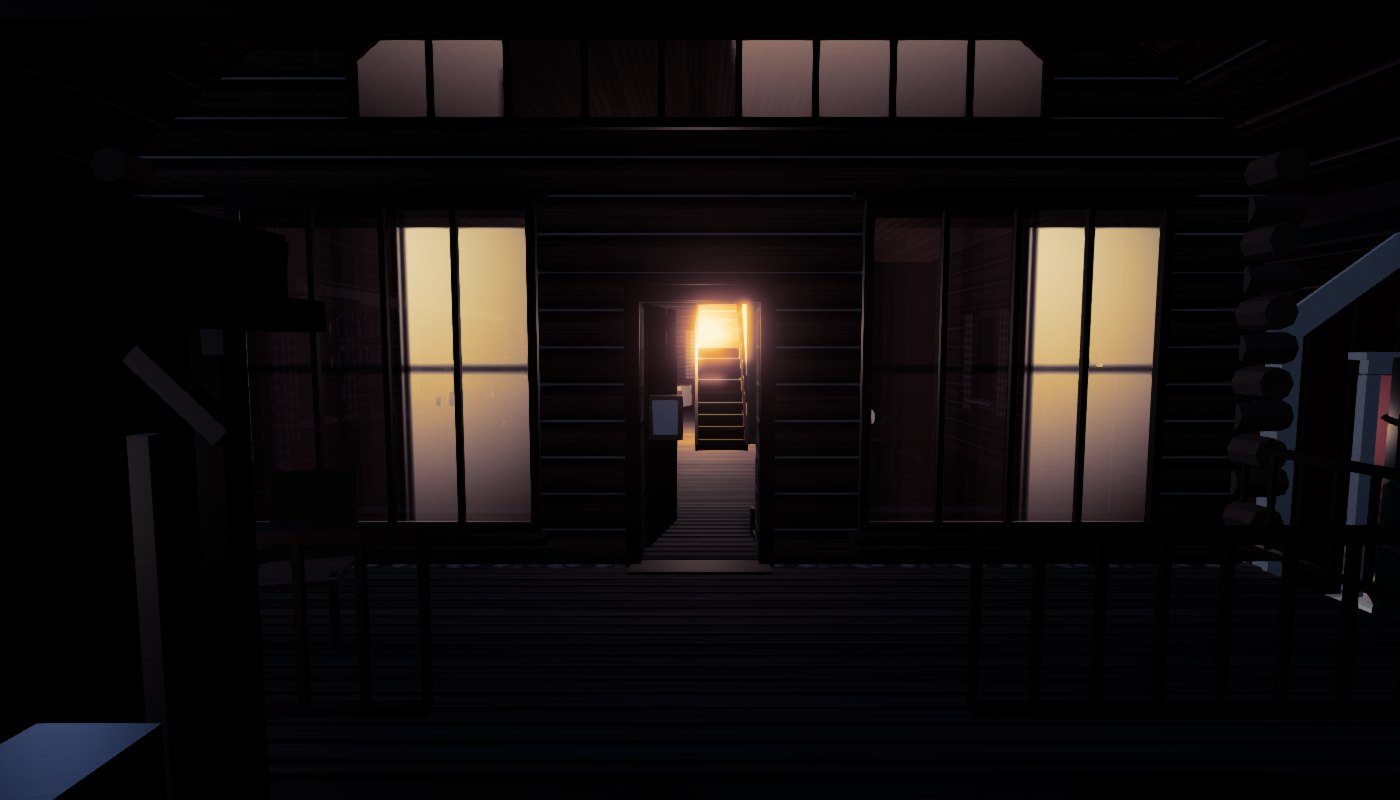
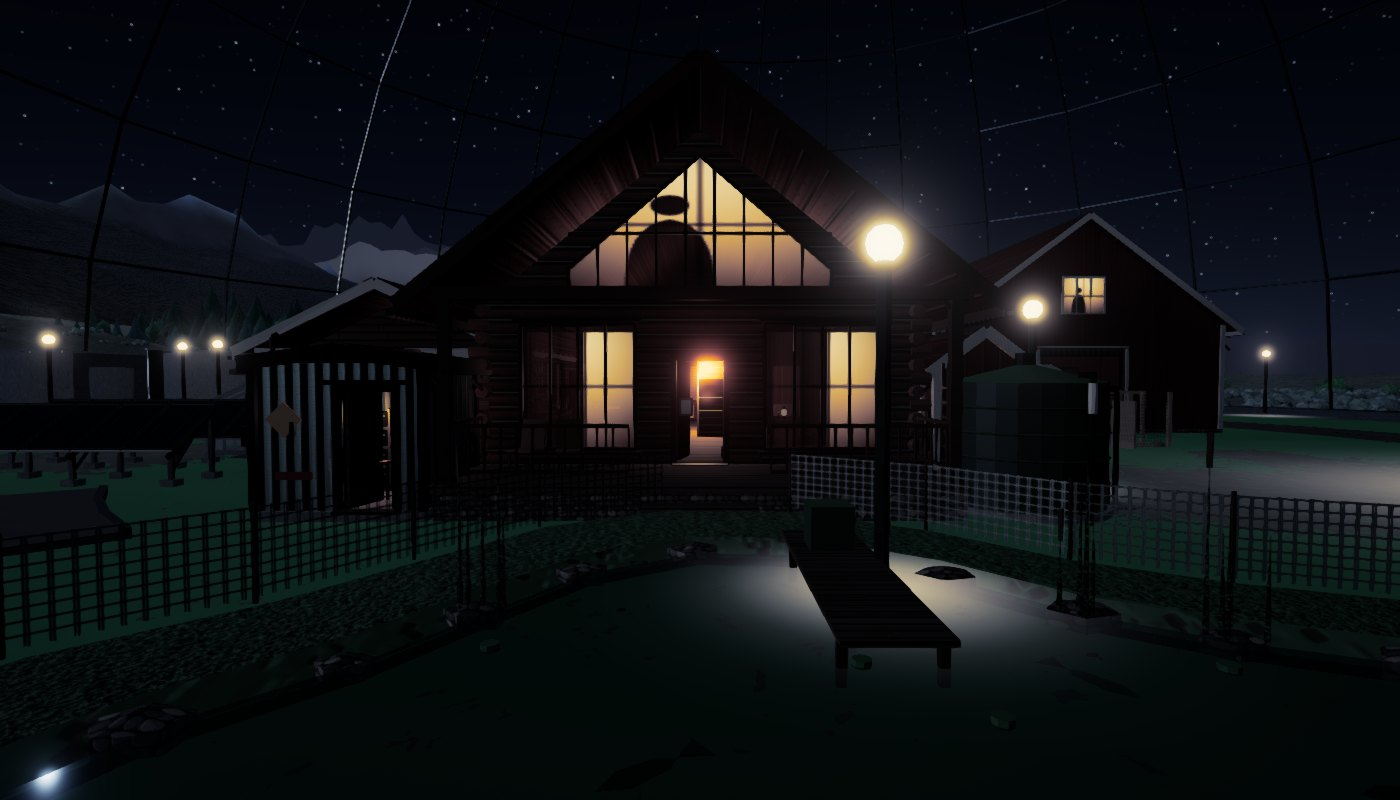
Dome interiors round 3: fresh frames on current main, REPORT

diff --git a/docs/ux/dome-interiors/REPORT.md b/docs/ux/dome-interiors/REPORT.md
@@ -56,3 +56,21 @@ Scripts: `scripts/domeInteriorShots.mjs` (dome floors, day and night pairs, same
 A first version of the dressing added its own meshes (+3 draw calls on dome_glass, +4 on the arcology) and broke the budget; it now merges into the plant's machinery mesh and its lamp and pool instances, so draw calls are unchanged. Shadow triangles and casters are unchanged.
 
 Latest run on main plus this branch: dome_glass 409 calls (766k / 1052k tris, 101 / 118 MB), dome_arcology 411 (778k / 1073k, 103 / 120 MB), mountain 396; all under budget, no budget changed.
+
+
+## Round 3: dome re-shoot on current main (night fix #403, camera grade #405, vehicle port #401)
+All 36 dome frames were re-shot (stale pre-merge `dome-*` frames removed). Glass and arcology, day and night pairs; the 08 to 10 frames show the new one-entrance layout from inside.
+
+| Frame | Verdict |
+|---|---|
+| 00 aerial inside (glass, arcology) | Good. Night no longer glows green; lamps, lit windows, plant block readable. |
+| 01 lawn and homes, glass night | Good: greenhouse, house, bench lamp pool. Lawn is a little green-black. |
+| 02 path between buildings | Good. Day clear; night has two lamp posts at the door and warm pools. |
+| 03 house door, glass | Fixed. Shot from the lawn: lit gable and windows, a lamp post, a bench; before, the porch was a black deck. |
+| 04 plant yard, glass | Usable now: the camera stands in an aisle (the shot script keeps that sector clear of houses), plant buildings and lamp posts with pools at night. |
+| 04 plant yard, arcology night | Better: lamp posts and a lit apron in front of the garage-style units. The middle of the floor is still dark lawn. |
+| 05 person airlock, 06 ceiling | Good; arcology 05 night shows the lit door lamp, bench and crates. |
+| 08 vehicle lane, 09 entrance complex, 10 vehicle port door (glass, arcology) | New. The truck lane is paved and marked; the person airlock sits beside the vehicle port; lamps flank both doors. Glass night shows lit door lamps. Arcology night lane frames are dark: asphalt albedo is low and the lane has no lamp of its own. |
+
+Changes: lamp posts beside every lived-in house and flanking each person airlock; plant-unit lamp posts with larger pools; shot script keeps the plant sector free, adds the lane and entrance shots.
+Not done: the arcology 08 and 10 night frames are still dark (lane lamps would fix them). Interior pools are still soft, not rim-bright.
